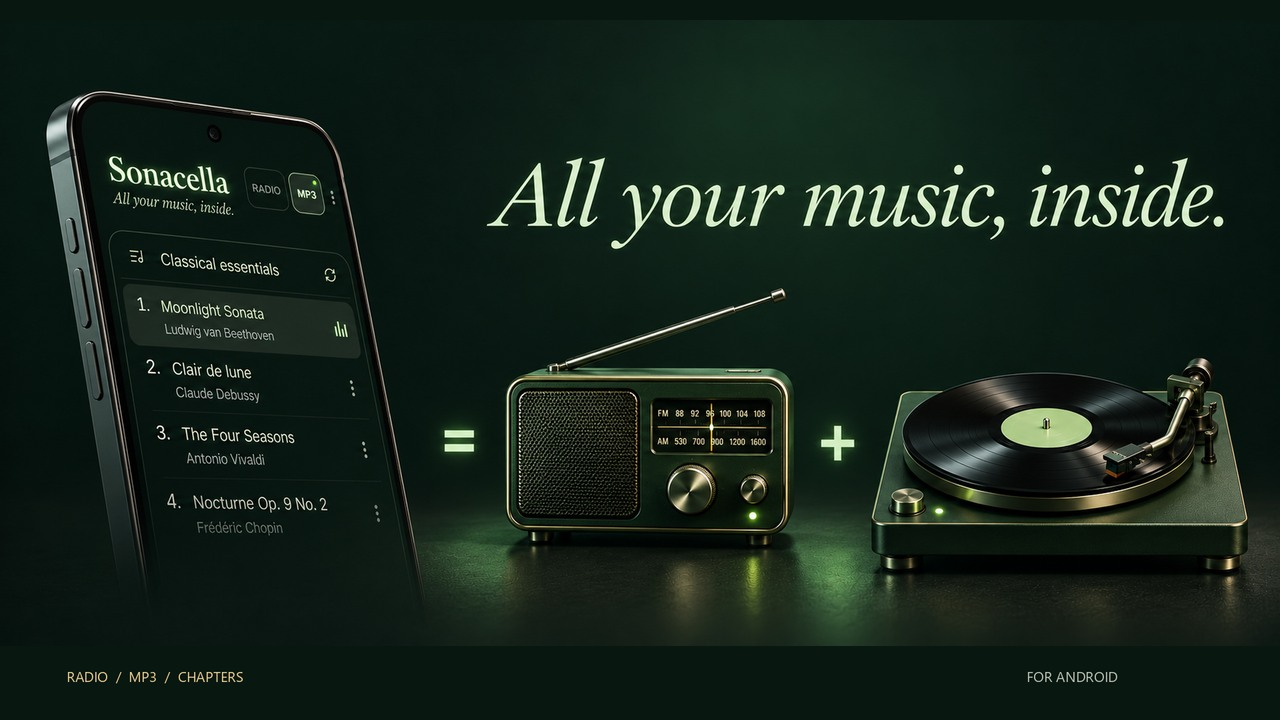
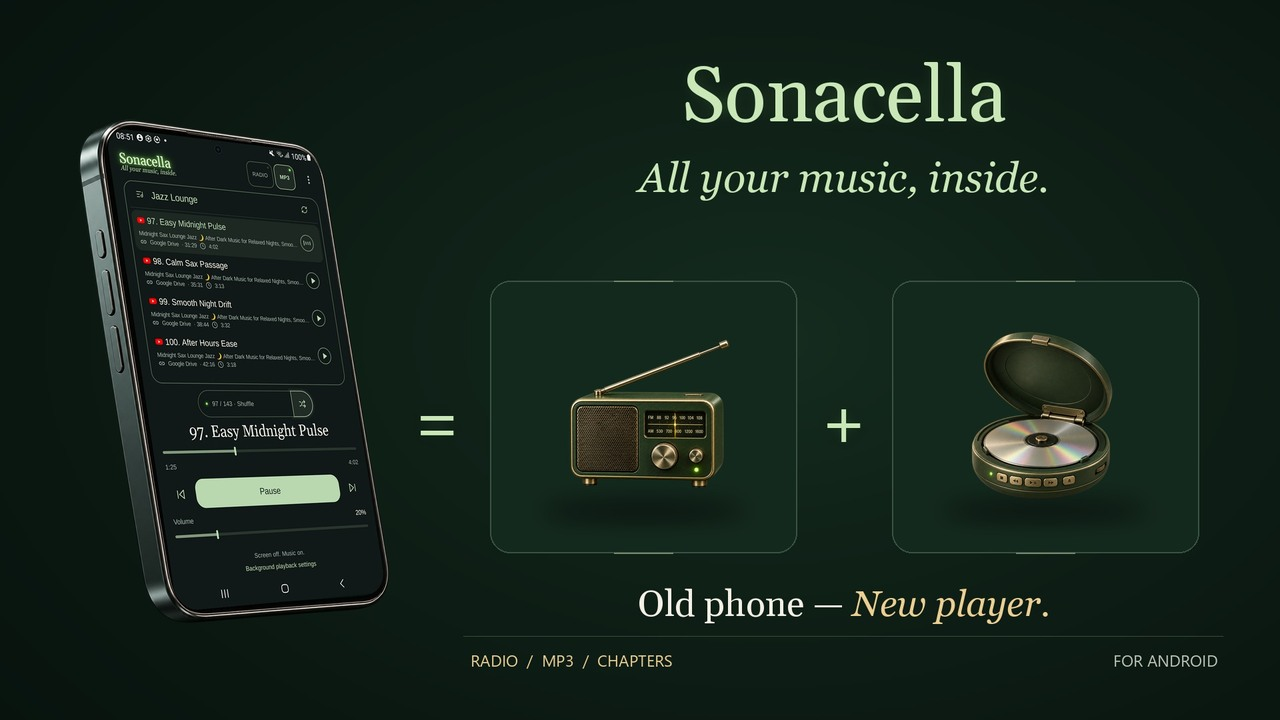
Update the Sonacella promo video

diff --git a/index.html b/index.html
@@ -51,14 +51,14 @@
         </a>
       </div>
       <figure class="hero-video">
-        <div class="video-frame" data-video="KI-CfoK8d9U">
-          <a class="video-launch" href="https://www.youtube.com/watch?v=KI-CfoK8d9U" aria-label="Play the Sonacella promotional video, 20 seconds">
-            <img src="assets/promo-poster.jpg" width="1280" height="720" alt="Sonacella: All your music, inside. A phone, radio and record player." fetchpriority="high">
+        <div class="video-frame" data-video="gffmYisxqLQ">
+          <a class="video-launch" href="https://www.youtube.com/watch?v=gffmYisxqLQ" aria-label="Play the Sonacella promotional video, 35 seconds">
+            <img src="assets/promo-poster.jpg" width="1280" height="720" alt="Sonacella: Old phone, new player. A phone, radio and portable CD player." fetchpriority="high">
             <span class="video-play" aria-hidden="true">&#9654;</span>
-            <span class="video-duration" aria-hidden="true">0:20</span>
+            <span class="video-duration" aria-hidden="true">0:35</span>
           </a>
         </div>
-        <figcaption>See Sonacella in 20 seconds. <a href="https://www.youtube.com/watch?v=KI-CfoK8d9U" target="_blank" rel="noopener">Watch on YouTube</a></figcaption>
+        <figcaption>See Sonacella in 35 seconds. <a href="https://www.youtube.com/watch?v=gffmYisxqLQ" target="_blank" rel="noopener">Watch on YouTube</a></figcaption>
       </figure>
     </section>
 
